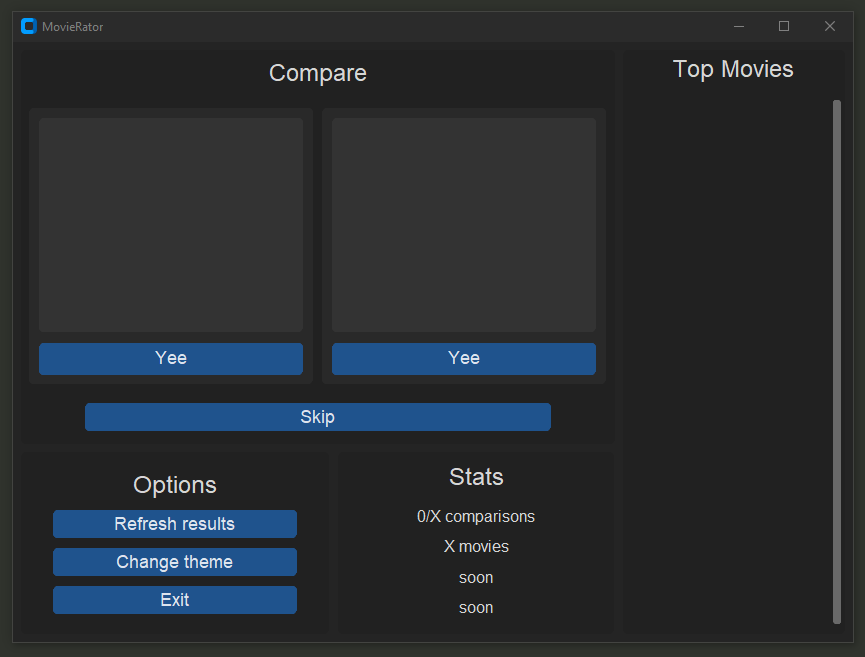
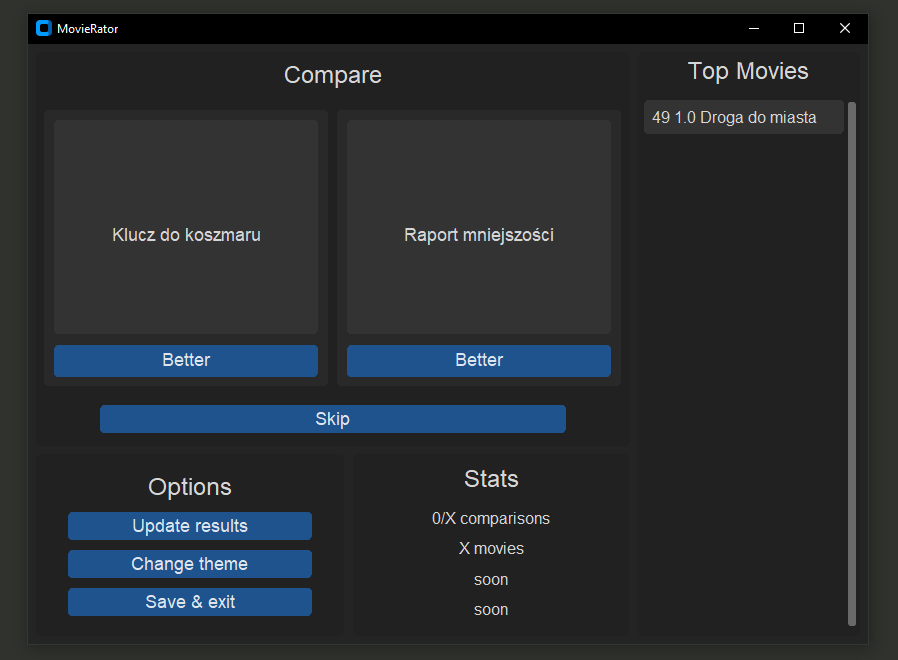
updating json data, misc changes

diff --git a/frames/settings_frame.py b/frames/settings_frame.py
@@ -1,27 +1,37 @@
+import json
 import sys
 import customtkinter
 import res.font_constants as fonts
 
 class SettingsFrame(customtkinter.CTkFrame):
-    def __init__(self, master):
+    def __init__(self, master, pairing_data, movie_data):
         super().__init__(master)
         
         self.grid_columnconfigure(0, weight=1)
         self.grid_rowconfigure((0, 1, 2, 3), weight=1)
         
+        self.pairing_data = pairing_data
+        self.movie_data = movie_data
+        
         self.frame_label = customtkinter.CTkLabel(self, text="Options", font=fonts.ARIAL_H1)
         self.frame_label.grid(row=0, column=0, padx=10, pady=10, sticky="swe")
         self.frame_label._text.center
         
-        self.refresh_btn = customtkinter.CTkButton(self, text="Refresh results", command=self.refresh_results, font=fonts.ARIAL_DEFAULT)
+        self.refresh_btn = customtkinter.CTkButton(self, text="Update results", command=self.update_results, font=fonts.ARIAL_DEFAULT)
         self.refresh_btn.grid(row=1, column=0, padx=32, pady=0, sticky="nwe")
         self.theme_btn = customtkinter.CTkButton(self, text="Change theme", command=self.change_theme, font=fonts.ARIAL_DEFAULT)
         self.theme_btn.grid(row=2, column=0, padx=32, pady=0, sticky="nwe")
-        self.exit_btn = customtkinter.CTkButton(self, text="Exit", command=self.exit_app, font=fonts.ARIAL_DEFAULT)
+        self.exit_btn = customtkinter.CTkButton(self, text="Save & exit", command=self.exit_app, font=fonts.ARIAL_DEFAULT)
         self.exit_btn.grid(row=3, column=0, padx=32, pady=(0,10), sticky="nwe")
     
-    def refresh_results(self):
-        pass
+    def update_results(self):
+        with open("res/movie_pairings_test.json", "w") as file:
+            json.dump(self.pairing_data, file, indent=2)
+        
+        with open("res/movie_data_test.json", "w") as file:
+            json.dump(self.movie_data, file, indent=2)
+        
+        #update result frame
     
     def change_theme(self):
         if customtkinter.AppearanceModeTracker.appearance_mode:
@@ -30,4 +40,10 @@ class SettingsFrame(customtkinter.CTkFrame):
             customtkinter.set_appearance_mode("Dark")
     
     def exit_app(self):
+        with open("res/movie_pairings_test.json", "w") as file:
+            json.dump(self.pairing_data, file, indent=2)
+        
+        with open("res/movie_data_test.json", "w") as file:
+            json.dump(self.movie_data, file, indent=2)
+            
         sys.exit()

diff --git a/frames/compare_frame.py b/frames/compare_frame.py
@@ -1,6 +1,4 @@
-import sys
 import customtkinter
-import json
 import random
 import res.font_constants as fonts
 from frames.option_frame import OptionFrame
@@ -19,21 +17,26 @@ class CompareFrame(customtkinter.CTkFrame):
         self.frame_title = customtkinter.CTkLabel(self, text="Compare", font=fonts.ARIAL_H1)
         self.frame_title.grid(row=0, column=0, columnspan=2, padx=10, pady=10, sticky="nwe")
         
-        self.option_frame_1 = OptionFrame(self)
+        self.option_frame_1 = OptionFrame(self, pairing_data)
         self.option_frame_1.grid(row=1, column=0, padx=(8, 4), pady=8, sticky="nswe")
-        self.option_frame_2 = OptionFrame(self)
+        self.option_frame_2 = OptionFrame(self, pairing_data)
         self.option_frame_2.grid(row=1, column=1, padx=(4, 8), pady=8, sticky="nswe")
         
         self.test_btn = customtkinter.CTkButton(self, text="Skip", command=self.pair, font=fonts.ARIAL_DEFAULT)
         self.test_btn.grid(row=2, column=0, columnspan=2, padx=64, pady=(10,10), sticky="nwe")
+        
+        self.pair()
 
     def pair(self):
-        random_pairing = random.choice(self.pairing_data["pairings"])
+        random_pairing = next(random.choice(self.pairing_data["pairings"]) for pair in self.pairing_data["pairings"] if pair["used"] == False)
 
         movie_1_id, movie_2_id = random_pairing["pair"]
-        movie_1_title = next(movie["movie_title"] for movie in self.movie_data["movies"] if movie["id"] == movie_1_id)
-        movie_2_title = next(movie["movie_title"] for movie in self.movie_data["movies"] if movie["id"] == movie_2_id)
+        movie_1 = next(movie for movie in self.movie_data["movies"] if movie["id"] == movie_1_id)
+        movie_2 = next(movie for movie in self.movie_data["movies"] if movie["id"] == movie_2_id)
         
-        self.option_frame_1.update(f"{movie_1_title}")
-        self.option_frame_2.update(f"{movie_2_title}")
+        movie_1_title = movie_1["movie_title"]
+        movie_2_title = movie_2["movie_title"]
+        
+        self.option_frame_1.update(f"{movie_1_title}", random_pairing, movie_1, movie_2)
+        self.option_frame_2.update(f"{movie_2_title}", random_pairing, movie_2, movie_1)
     

diff --git a/frames/option_frame.py b/frames/option_frame.py
@@ -2,26 +2,40 @@ import customtkinter
 import res.font_constants as fonts
 
 class OptionFrame(customtkinter.CTkFrame):
-    def __init__(self, master):
+    def __init__(self, master, pairing_data):
         super().__init__(master)
         
         self.grid_columnconfigure(0, weight=1)
         self.grid_rowconfigure(0, weight=4)
         self.grid_rowconfigure(1, weight=1)
         
+        self.pairing_data = pairing_data
+        
         self.movie_title = customtkinter.CTkTextbox(self, font=fonts.ARIAL_DEFAULT, state="disabled", wrap="word", activate_scrollbars=False)
         self.movie_title.grid(row=0, column=0, padx=10, pady=10, sticky="nwes")
         self.movie_title.tag_config("center", justify="center", spacing1=96, spacing3=128)
         
-        self.movie_btn = customtkinter.CTkButton(self, text="Yee", command=self.selection, font=fonts.ARIAL_DEFAULT)
+        self.movie_btn = customtkinter.CTkButton(self, text="Better", command=self.selection, font=fonts.ARIAL_DEFAULT)
         self.movie_btn.grid(row=1, column=0, padx=10, pady=(0, 10), sticky="nswe")
     
-    def update(self, movie_title):
+    def update(self, movie_title, pairing, movie, other_movie):
+        self.pairing = pairing
+        self.movie = movie
+        self.other_movie = other_movie
+        
         self.movie_title.configure(state="normal")
         self.movie_title.delete("0.0", "end")
         self.movie_title.insert("0.0", movie_title, "center")
         self.movie_title.configure(state="disabled")
         
     def selection(self):
-        #updating data
+        '''TODO reimplement later when all pairings are nearly exhausted
+        if self.pairing == -1 or self.movie_score == -1:
+            return'''
+        
+        self.pairing["used"] = True
+        self.movie["points"] +=1
+        self.movie["occurrences"] +=1
+        self.other_movie["occurrences"] +=1
+        
         self.master.pair()

diff --git a/movie-rator.py b/movie-rator.py
@@ -15,10 +15,11 @@ class App(customtkinter.CTk):
         self.geometry("840x600")
         self.title("MovieRator")
         
-        with open("res/movie_pairings.json", "r") as file:
+        with open("res/movie_pairings_test.json", "r") as file:
+            #TODO process in chunks - file too large
             self.pairing_data = json.load(file)
 
-        with open("res/movie_data.json", "r") as file:
+        with open("res/movie_data_test.json", "r") as file:
             self.movie_data = json.load(file)
         
         self.grid_columnconfigure((0, 1), weight=30)
@@ -32,7 +33,7 @@ class App(customtkinter.CTk):
         self.result_frame = ResultFrame(self, self.movie_data)
         self.result_frame.grid(row=0, column=2, padx=8, pady=8, sticky="nswe", rowspan=3)
         
-        self.settings_frame = SettingsFrame(self)
+        self.settings_frame = SettingsFrame(self, self.pairing_data, self.movie_data)
         self.settings_frame.grid(row=2, column=0, padx=(8, 0), pady=(0, 8), sticky="nswe", rowspan=1)
         
         self.stats_frame = StatsFrame(self)

diff --git a/frames/result_frame.py b/frames/result_frame.py
@@ -1,7 +1,6 @@
 import tkinter
 import customtkinter
 import res.font_constants as fonts
-import json
 
 class ResultFrame(customtkinter.CTkScrollableFrame):
     def __init__(self, master, movie_data):

diff --git a/README.md b/README.md
@@ -1,7 +1,9 @@
 # Movie Rator
 Minimalistic app for rating (comparing) movies.
 
-<img src="res/preview.PNG" alt="Preview" style="width: 100%">
+<div style="text-align:center">
+    <img src="res/preview.PNG" alt="Preview" style="width: 75%">
+</div>
 
 ### Getting Started
 
